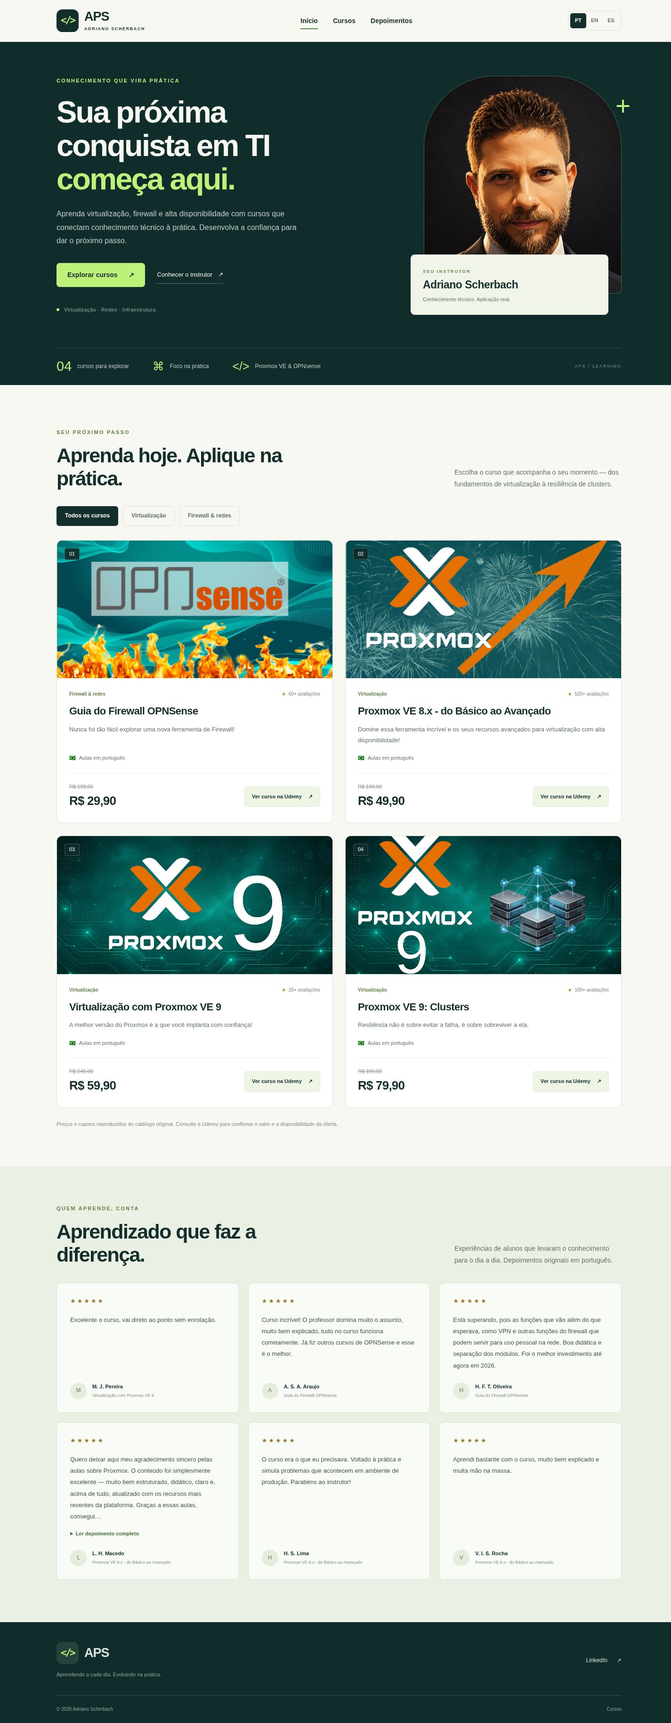
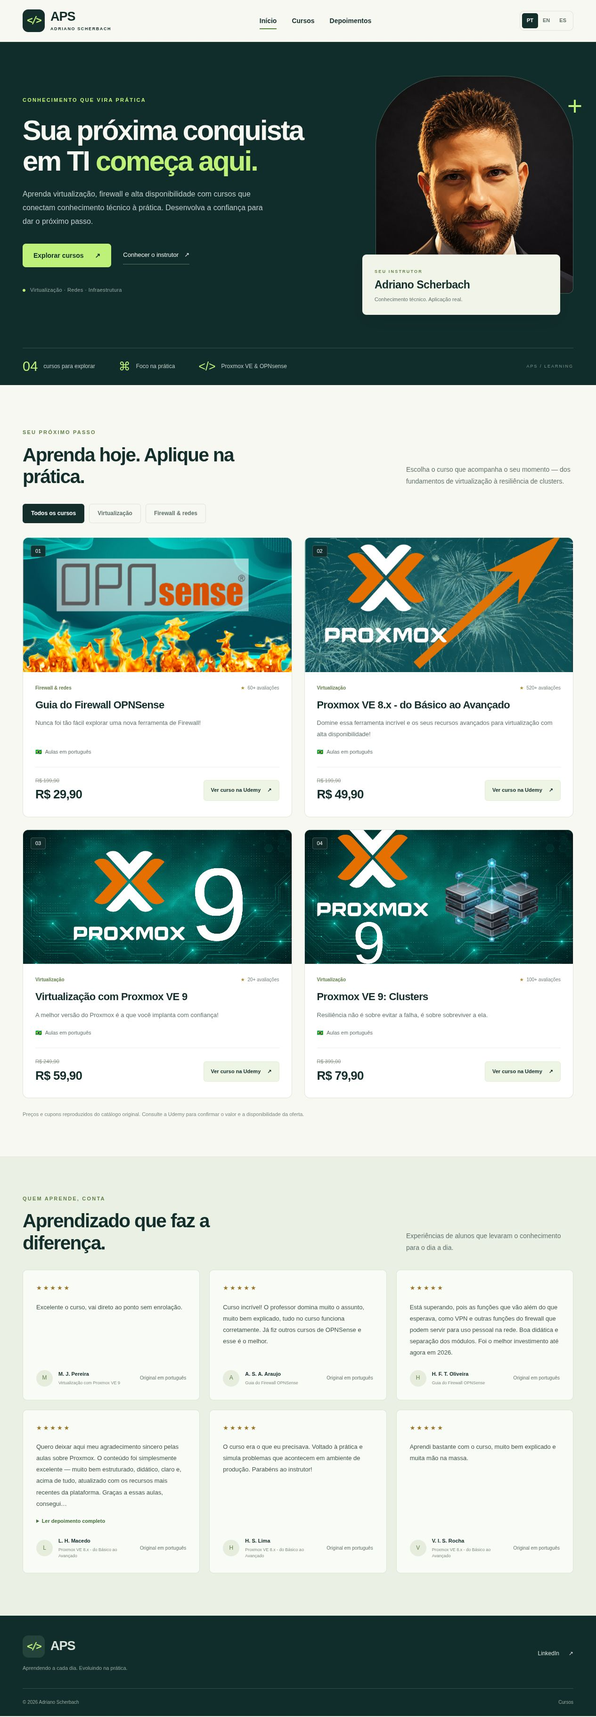
nova versao 2026-10 v2

diff --git a/src/lang/translations.js b/src/lang/translations.js
@@ -1,1 +1,1 @@
-window.APS_TRANSLATIONS = {"head": {"title": {"br": "Adriano Scherbach | Cursos de infraestrutura de TI", "en": "Adriano Scherbach | IT infrastructure courses", "es": "Adriano Scherbach | Cursos de infraestructura de TI"}}, "header": {"logo": {"br": " APS", "en": " APS", "es": " APS"}, "nav-item-start": {"br": "Início", "en": "Home", "es": "Inicio"}, "nav-item-menu": {"br": "Cursos", "en": "Courses", "es": "Cursos"}, "nav-item-testimonials": {"br": "Depoimentos", "en": "Testimonials", "es": "Testimonios"}}, "home": {"cta-title": {"br": "Sua próxima conquista em TI <span>começa aqui.</span>", "en": "Your next achievement in IT <span>starts here.</span>", "es": "Tu próximo logro en TI <span>empieza aquí.</span>"}, "cta-description": {"br": "Aprenda virtualização, firewall e alta disponibilidade com cursos que conectam conhecimento técnico à prática. Desenvolva a confiança para dar o próximo passo.", "en": "Learn virtualization, firewalls and high availability through courses that connect technical knowledge with practice. Build the confidence to take your next step.", "es": "Aprende virtualización, firewall y alta disponibilidad con cursos que conectan el conocimiento técnico con la práctica. Desarrolla la confianza para dar el siguiente paso."}, "cta-button": {"br": "Explorar cursos", "en": "Explore courses", "es": "Explorar cursos"}, "eyebrow": {"br": "CONHECIMENTO QUE VIRA PRÁTICA", "en": "KNOWLEDGE PUT INTO PRACTICE", "es": "CONOCIMIENTO QUE SE VUELVE PRÁCTICA"}, "secondary": {"br": "Conhecer o instrutor", "en": "Meet the instructor", "es": "Conocer al instructor"}, "instructor": {"br": "SEU INSTRUTOR", "en": "YOUR INSTRUCTOR", "es": "TU INSTRUCTOR"}, "role": {"br": "Conhecimento técnico. Aplicação real.", "en": "Technical knowledge. Real application.", "es": "Conocimiento técnico. Aplicación real."}, "topics": {"br": "Virtualização · Redes · Infraestrutura", "en": "Virtualization · Networks · Infrastructure", "es": "Virtualización · Redes · Infraestructura"}, "stats-courses": {"br": "cursos para explorar", "en": "courses to explore", "es": "cursos para explorar"}, "stats-practice": {"br": "Foco na prática", "en": "Practice first", "es": "Enfoque práctico"}, "stats-tools": {"br": "Proxmox VE & OPNsense", "en": "Proxmox VE & OPNsense", "es": "Proxmox VE & OPNsense"}}, "menu": {"title": {"br": "Cursos", "en": "Courses", "es": "Cursos"}, "subtitle": {"br": "Aprenda hoje. Aplique na prática.", "en": "Learn today. Put it into practice.", "es": "Aprende hoy. Llévalo a la práctica."}, "languages": {"br": "Idiomas Disponíveis", "en": "Available languages", "es": "Idiomas disponibles"}, "explorer": {"br": "Explorar", "en": "Discover", "es": "Explorar"}, "opnsense": {"title": {"br": "Guia do Firewall OPNSense", "en": "OPNsense Firewall Guide", "es": "Guía del Firewall OPNsense"}, "description": {"br": "Nunca foi tão fácil explorar uma nova ferramenta de Firewall!", "en": "It has never been easier to explore a new Firewall tool!", "es": "¡Explorar una nueva herramienta de Firewall nunca ha sido tan fácil!"}}, "pve8": {"title": {"br": "Proxmox VE 8.x - do Básico ao Avançado", "en": "Proxmox VE 8.x - From Basic to Advanced", "es": "Proxmox VE 8.x: De lo básico a lo avanzado"}, "description": {"br": "Domine essa ferramenta incrível e os seus recursos avançados para virtualização com alta disponibilidade!", "en": "Master this incredible tool and its advanced features for high-availability virtualization!", "es": "¡Domina esta increíble herramienta y sus funciones avanzadas para la virtualización de alta disponibilidad!"}}, "pve9-intro": {"title": {"br": "Virtualização com Proxmox VE 9", "en": "Virtualization with Proxmox VE 9", "es": "Virtualización con Proxmox VE 9"}, "description": {"br": "A melhor versão do Proxmox é a que você implanta com confiança!", "en": "The best version of Proxmox is the one you deploy with confidence!", "es": "¡La mejor versión de Proxmox es la que implementas con confianza!"}}, "pve9-clusters": {"title": {"br": "Proxmox VE 9: Clusters", "en": "Proxmox VE 9: Clusters", "es": "Proxmox VE 9: Clusters"}, "description": {"br": "Resiliência não é sobre evitar a falha, é sobre sobreviver a ela.", "en": "Resilience isn't about avoiding failure; it's about surviving it.", "es": "La resiliencia no se trata de evitar el fracaso, sino de sobrevivir a él."}}, "eyebrow": {"br": "SEU PRÓXIMO PASSO", "en": "YOUR NEXT STEP", "es": "TU SIGUIENTE PASO"}, "intro": {"br": "Escolha o curso que acompanha o seu momento — dos fundamentos de virtualização à resiliência de clusters.", "en": "Choose the course that fits your journey — from virtualization fundamentals to cluster resilience.", "es": "Elige el curso que acompaña tu momento: desde los fundamentos de virtualización hasta la resiliencia de clusters."}, "all": {"br": "Todos os cursos", "en": "All courses", "es": "Todos los cursos"}, "virtualization": {"br": "Virtualização", "en": "Virtualization", "es": "Virtualización"}, "security": {"br": "Firewall & redes", "en": "Firewall & networks", "es": "Firewall y redes"}, "buy": {"br": "Ver curso na Udemy", "en": "View course on Udemy", "es": "Ver curso en Udemy"}, "language": {"br": "Aulas em português", "en": "Taught in Portuguese", "es": "Clases en portugués"}, "reviews": {"br": "avaliações", "en": "reviews", "es": "reseñas"}, "notice": {"br": "Preços e cupons reproduzidos do catálogo original. Consulte a Udemy para confirmar o valor e a disponibilidade da oferta.", "en": "Prices and coupons reproduced from the original catalog. Check Udemy to confirm current pricing and offer availability.", "es": "Precios y cupones reproducidos del catálogo original. Consulta Udemy para confirmar el precio y la disponibilidad de la oferta."}, "empty": {"br": "Nenhum curso nesta categoria.", "en": "No courses in this category.", "es": "No hay cursos en esta categoría."}}, "testimonials": {"title": {"br": "Avaliações", "en": "Reviews", "es": "Reseñas"}, "subtitle": {"br": "Aprendizado que faz a diferença.", "en": "Learning that makes a difference.", "es": "Aprendizaje que marca la diferencia."}, "eyebrow": {"br": "QUEM APRENDE, CONTA", "en": "FROM THE PEOPLE WHO LEARN", "es": "QUIEN APRENDE, CUENTA"}, "intro": {"br": "Experiências de alunos que levaram o conhecimento para o dia a dia. Depoimentos originais em português.", "en": "Experiences from students who put their knowledge into practice. Original testimonials in Portuguese.", "es": "Experiencias de alumnos que aplicaron el conocimiento en su día a día. Testimonios originales en portugués."}, "more": {"br": "Ler depoimento completo", "en": "Read full testimonial", "es": "Leer testimonio completo"}}, "footer": {"home": {"br": "Início", "en": "Home", "es": "Inicio"}, "about": {"br": "Sobre", "en": "About", "es": "Acerca de"}, "tagline": {"br": "Aprendendo a cada dia. Evoluindo na prática.", "en": "Learning every day. Growing through practice.", "es": "Aprendiendo cada día. Evolucionando en la práctica."}}, "modules": {"title": {"br": "Módulos", "en": "Modules", "es": "Modulos"}, "subtitle": {"br": "Comece hoje mesmo", "en": "Get started today!", "es": "¡Empieza hoy mismo!"}}, "a11y": {"skip": {"br": "Ir para o conteúdo", "en": "Skip to content", "es": "Ir al contenido"}, "menu": {"br": "Abrir ou fechar navegação", "en": "Open or close navigation", "es": "Abrir o cerrar navegación"}, "language": {"br": "Idioma do site", "en": "Site language", "es": "Idioma del sitio"}, "navigation": {"br": "Navegação principal", "en": "Main navigation", "es": "Navegación principal"}}};
+window.APS_TRANSLATIONS = {"head": {"title": {"br": "Adriano Scherbach | Cursos de infraestrutura de TI", "en": "Adriano Scherbach | IT infrastructure courses", "es": "Adriano Scherbach | Cursos de infraestructura de TI"}}, "header": {"logo": {"br": " APS", "en": " APS", "es": " APS"}, "nav-item-start": {"br": "Início", "en": "Home", "es": "Inicio"}, "nav-item-menu": {"br": "Cursos", "en": "Courses", "es": "Cursos"}, "nav-item-testimonials": {"br": "Depoimentos", "en": "Testimonials", "es": "Testimonios"}}, "home": {"cta-title": {"br": "Sua próxima conquista em TI <span>começa aqui.</span>", "en": "Your next achievement in IT <span>starts here.</span>", "es": "Tu próximo logro en TI <span>empieza aquí.</span>"}, "cta-description": {"br": "Aprenda virtualização, firewall e alta disponibilidade com cursos que conectam conhecimento técnico à prática. Desenvolva a confiança para dar o próximo passo.", "en": "Learn virtualization, firewalls and high availability through courses that connect technical knowledge with practice. Build the confidence to take your next step.", "es": "Aprende virtualización, firewall y alta disponibilidad con cursos que conectan el conocimiento técnico con la práctica. Desarrolla la confianza para dar el siguiente paso."}, "cta-button": {"br": "Explorar cursos", "en": "Explore courses", "es": "Explorar cursos"}, "eyebrow": {"br": "CONHECIMENTO QUE VIRA PRÁTICA", "en": "KNOWLEDGE PUT INTO PRACTICE", "es": "CONOCIMIENTO QUE SE VUELVE PRÁCTICA"}, "secondary": {"br": "Conhecer o instrutor", "en": "Meet the instructor", "es": "Conocer al instructor"}, "instructor": {"br": "SEU INSTRUTOR", "en": "YOUR INSTRUCTOR", "es": "TU INSTRUCTOR"}, "role": {"br": "Conhecimento técnico. Aplicação real.", "en": "Technical knowledge. Real application.", "es": "Conocimiento técnico. Aplicación real."}, "topics": {"br": "Virtualização · Redes · Infraestrutura", "en": "Virtualization · Networks · Infrastructure", "es": "Virtualización · Redes · Infraestructura"}, "stats-courses": {"br": "cursos para explorar", "en": "courses to explore", "es": "cursos para explorar"}, "stats-practice": {"br": "Foco na prática", "en": "Practice first", "es": "Enfoque práctico"}, "stats-tools": {"br": "Proxmox VE & OPNsense", "en": "Proxmox VE & OPNsense", "es": "Proxmox VE & OPNsense"}}, "menu": {"title": {"br": "Cursos", "en": "Courses", "es": "Cursos"}, "subtitle": {"br": "Aprenda hoje. Aplique na prática.", "en": "Learn today. Put it into practice.", "es": "Aprende hoy. Llévalo a la práctica."}, "languages": {"br": "Idiomas Disponíveis", "en": "Available languages", "es": "Idiomas disponibles"}, "explorer": {"br": "Explorar", "en": "Discover", "es": "Explorar"}, "opnsense": {"title": {"br": "Guia do Firewall OPNSense", "en": "OPNsense Firewall Guide", "es": "Guía del Firewall OPNsense"}, "description": {"br": "Nunca foi tão fácil explorar uma nova ferramenta de Firewall!", "en": "It has never been easier to explore a new Firewall tool!", "es": "¡Explorar una nueva herramienta de Firewall nunca ha sido tan fácil!"}}, "pve8": {"title": {"br": "Proxmox VE 8.x - do Básico ao Avançado", "en": "Proxmox VE 8.x - From Basic to Advanced", "es": "Proxmox VE 8.x: De lo básico a lo avanzado"}, "description": {"br": "Domine essa ferramenta incrível e os seus recursos avançados para virtualização com alta disponibilidade!", "en": "Master this incredible tool and its advanced features for high-availability virtualization!", "es": "¡Domina esta increíble herramienta y sus funciones avanzadas para la virtualización de alta disponibilidad!"}}, "pve9-intro": {"title": {"br": "Virtualização com Proxmox VE 9", "en": "Virtualization with Proxmox VE 9", "es": "Virtualización con Proxmox VE 9"}, "description": {"br": "A melhor versão do Proxmox é a que você implanta com confiança!", "en": "The best version of Proxmox is the one you deploy with confidence!", "es": "¡La mejor versión de Proxmox es la que implementas con confianza!"}}, "pve9-clusters": {"title": {"br": "Proxmox VE 9: Clusters", "en": "Proxmox VE 9: Clusters", "es": "Proxmox VE 9: Clusters"}, "description": {"br": "Resiliência não é sobre evitar a falha, é sobre sobreviver a ela.", "en": "Resilience isn't about avoiding failure; it's about surviving it.", "es": "La resiliencia no se trata de evitar el fracaso, sino de sobrevivir a él."}}, "eyebrow": {"br": "SEU PRÓXIMO PASSO", "en": "YOUR NEXT STEP", "es": "TU SIGUIENTE PASO"}, "intro": {"br": "Escolha o curso que acompanha o seu momento — dos fundamentos de virtualização à resiliência de clusters.", "en": "Choose the course that fits your journey — from virtualization fundamentals to cluster resilience.", "es": "Elige el curso que acompaña tu momento: desde los fundamentos de virtualización hasta la resiliencia de clusters."}, "all": {"br": "Todos os cursos", "en": "All courses", "es": "Todos los cursos"}, "virtualization": {"br": "Virtualização", "en": "Virtualization", "es": "Virtualización"}, "security": {"br": "Firewall & redes", "en": "Firewall & networks", "es": "Firewall y redes"}, "buy": {"br": "Ver curso na Udemy", "en": "View course on Udemy", "es": "Ver curso en Udemy"}, "language": {"br": "Aulas em português", "en": "Taught in Portuguese", "es": "Clases en portugués"}, "reviews": {"br": "avaliações", "en": "reviews", "es": "reseñas"}, "notice": {"br": "Preços e cupons reproduzidos do catálogo original. Consulte a Udemy para confirmar o valor e a disponibilidade da oferta.", "en": "Prices and coupons reproduced from the original catalog. Check Udemy to confirm current pricing and offer availability.", "es": "Precios y cupones reproducidos del catálogo original. Consulta Udemy para confirmar el precio y la disponibilidad de la oferta."}, "empty": {"br": "Nenhum curso nesta categoria.", "en": "No courses in this category.", "es": "No hay cursos en esta categoría."}}, "testimonials": {"title": {"br": "Avaliações", "en": "Reviews", "es": "Reseñas"}, "subtitle": {"br": "Aprendizado que faz a diferença.", "en": "Learning that makes a difference.", "es": "Aprendizaje que marca la diferencia."}, "eyebrow": {"br": "QUEM APRENDE, CONTA", "en": "FROM THE PEOPLE WHO LEARN", "es": "QUIEN APRENDE, CUENTA"}, "intro": {"br": "Experiências de alunos que levaram o conhecimento para o dia a dia.", "en": "Experiences from students who put their knowledge into practice.", "es": "Experiencias de alumnos que aplicaron el conocimiento en su día a día."}, "more": {"br": "Ler depoimento completo", "en": "Read full testimonial", "es": "Leer testimonio completo"}, "items": {"review1": {"quote": {"br": "Excelente o curso, vai direto ao ponto sem enrolação.", "en": "Excellent course; it gets straight to the point without unnecessary digressions.", "es": "Excelente curso; va directo al punto, sin rodeos."}}, "review2": {"quote": {"br": "Curso incrível! O professor domina muito o assunto, muito bem explicado, tudo no curso funciona corretamente. Já fiz outros cursos de OPNSense e esse é o melhor.", "en": "Amazing course! The instructor really knows the subject, explains everything very well, and everything in the course works correctly. I have taken other OPNsense courses, and this one is the best.", "es": "¡Curso increíble! El profesor domina muy bien el tema, lo explica todo muy bien y todo lo que se muestra en el curso funciona correctamente. Ya he hecho otros cursos de OPNsense y este es el mejor."}}, "review3": {"quote": {"br": "Está superando, pois as funções que vão além do que esperava, como VPN e outras funções do firewall que podem servir para uso pessoal na rede. Boa didática e separação dos módulos. Foi o melhor investimento até agora em 2026.", "en": "It is exceeding my expectations, with features that go beyond what I expected, such as VPN and other firewall functions that can be useful on a personal network. Good teaching and module organization. It has been my best investment so far in 2026.", "es": "Está superando mis expectativas, con funciones que van más allá de lo que esperaba, como VPN y otras funciones del firewall que pueden servir para uso personal en la red. Buena didáctica y organización de los módulos. Ha sido mi mejor inversión hasta ahora en 2026."}}, "review4": {"quote": {"br": "Quero deixar aqui meu agradecimento sincero pelas aulas sobre Proxmox. O conteúdo foi simplesmente excelente — muito bem estruturado, didático, claro e, acima de tudo, atualizado com os recursos mais recentes da plataforma.  Graças a essas aulas, consegui compreender todas as capacidades e possibilidades que o Proxmox oferece, desde a virtualização com KVM até o uso de containers, snapshots, alta disponibilidade, ZFS, gerenciamento em cluster e muito mais. Ferramentas que antes pareciam complexas agora fazem parte do meu dia a dia com muito mais segurança e confiança.  Parabéns pelo trabalho de qualidade e pelo jeito direto e acessível de ensinar. Aprender sobre virtualização com Proxmox nunca foi tão claro!  Muito obrigado!", "en": "I want to express my sincere thanks for the Proxmox lessons. The content was simply excellent — very well structured, easy to follow, clear and, above all, up to date with the platform’s latest features. Thanks to these lessons, I was able to understand all the capabilities and possibilities Proxmox offers, from virtualization with KVM to containers, snapshots, high availability, ZFS, cluster management and much more. Tools that once seemed complex are now part of my daily work, with much greater assurance and confidence. Congratulations on the quality of your work and your direct, accessible way of teaching. Learning about virtualization with Proxmox has never been so clear! Thank you very much!", "es": "Quiero expresar mi sincero agradecimiento por las clases sobre Proxmox. El contenido fue sencillamente excelente: muy bien estructurado, didáctico, claro y, sobre todo, actualizado con las funciones más recientes de la plataforma. Gracias a estas clases, pude comprender todas las capacidades y posibilidades que ofrece Proxmox, desde la virtualización con KVM hasta el uso de contenedores, snapshots, alta disponibilidad, ZFS, gestión de clusters y mucho más. Herramientas que antes parecían complejas ahora forman parte de mi día a día con mucha más seguridad y confianza. Felicitaciones por el trabajo de calidad y por la forma directa y accesible de enseñar. ¡Aprender sobre virtualización con Proxmox nunca había sido tan claro! ¡Muchas gracias!"}, "preview": {"br": "Quero deixar aqui meu agradecimento sincero pelas aulas sobre Proxmox. O conteúdo foi simplesmente excelente — muito bem estruturado, didático, claro e, acima de tudo, atualizado com os recursos mais recentes da plataforma.  Graças a essas aulas, consegui…", "en": "I want to express my sincere thanks for the Proxmox lessons. The content was simply excellent — very well structured, easy to follow, clear and, above all, up to date with the platform’s latest features. Thanks to these lessons, I was able to understand all…", "es": "Quiero expresar mi sincero agradecimiento por las clases sobre Proxmox. El contenido fue sencillamente excelente: muy bien estructurado, didáctico, claro y, sobre todo, actualizado con las funciones más recientes de la plataforma. Gracias a estas clases, pude…"}}, "review5": {"quote": {"br": "O curso era o que eu precisava. Voltado à prática e simula problemas que acontecem em ambiente de produção. Parabéns ao instrutor!", "en": "The course was exactly what I needed. It focuses on practice and simulates problems that occur in production environments. Congratulations to the instructor!", "es": "El curso era lo que necesitaba. Está orientado a la práctica y simula problemas que ocurren en entornos de producción. ¡Felicitaciones al instructor!"}}, "review6": {"quote": {"br": "Aprendi bastante com o curso, muito bem explicado e muita mão na massa.", "en": "I learned a lot from the course. Everything is explained very well, with plenty of hands-on practice.", "es": "Aprendí mucho con el curso; está muy bien explicado y hay mucha práctica."}}}, "translated": {"br": "Depoimento traduzido", "en": "Translated testimonial", "es": "Testimonio traducido"}, "original": {"br": "Ver original em português", "en": "View Portuguese original", "es": "Ver original en portugués"}, "originalLanguage": {"br": "Original em português", "en": "Originally in Portuguese", "es": "Original en portugués"}}, "footer": {"home": {"br": "Início", "en": "Home", "es": "Inicio"}, "about": {"br": "Sobre", "en": "About", "es": "Acerca de"}, "tagline": {"br": "Aprendendo a cada dia. Evoluindo na prática.", "en": "Learning every day. Growing through practice.", "es": "Aprendiendo cada día. Evolucionando en la práctica."}}, "modules": {"title": {"br": "Módulos", "en": "Modules", "es": "Modulos"}, "subtitle": {"br": "Comece hoje mesmo", "en": "Get started today!", "es": "¡Empieza hoy mismo!"}}, "a11y": {"skip": {"br": "Ir para o conteúdo", "en": "Skip to content", "es": "Ir al contenido"}, "menu": {"br": "Abrir ou fechar navegação", "en": "Open or close navigation", "es": "Abrir o cerrar navegación"}, "language": {"br": "Idioma do site", "en": "Site language", "es": "Idioma del sitio"}, "navigation": {"br": "Navegação principal", "en": "Main navigation", "es": "Navegación principal"}}};

diff --git a/index.html b/index.html
@@ -24,5 +24,5 @@
  <h3 data-i18n="menu.pve9-clusters.title" >Proxmox VE 9: Clusters</h3><p data-i18n="menu.pve9-clusters.description" class="course-description">Resiliência não é sobre evitar a falha, é sobre sobreviver a ela.</p>
  <div class="course-language"><span aria-hidden="true">🇧🇷</span> <span data-i18n="menu.language" >Aulas em português</span></div>
  <div class="course-bottom"><div class="price"><del>R$ 399,00</del><strong>R$ 79,90</strong></div><a class="course-link" href="https://www.udemy.com/course/proxmox-ve-9-clusters/?couponCode=66CB955DEFACEABEDBF8" target="_blank" rel="noopener noreferrer"><span data-i18n="menu.buy" >Ver curso na Udemy</span><span aria-hidden="true">↗</span></a></div></div></article></div><p data-i18n="menu.notice" class="price-notice">Preços e cupons reproduzidos do catálogo original. Consulte a Udemy para confirmar o valor e a disponibilidade da oferta.</p></section>
-<section id="testimonials" class="testimonials"><div class="container"><div class="section-heading"><div><p data-i18n="testimonials.eyebrow" class="eyebrow">QUEM APRENDE, CONTA</p><h2 data-i18n="testimonials.subtitle" >Aprendizado que faz a diferença.</h2></div><p data-i18n="testimonials.intro" class="section-description">Experiências de alunos que levaram o conhecimento para o dia a dia. Depoimentos originais em português.</p></div><div class="feedbacks"><figure class="feedback"><div class="stars" aria-label="5 / 5">★★★★★</div><blockquote lang="pt-BR">Excelente o curso, vai direto ao ponto sem enrolação.</blockquote><figcaption><span class="avatar" aria-hidden="true">M</span><div><strong>M. J. Pereira</strong><span>Virtualização com Proxmox VE 9</span></div></figcaption></figure><figure class="feedback"><div class="stars" aria-label="5 / 5">★★★★★</div><blockquote lang="pt-BR">Curso incrível! O professor domina muito o assunto, muito bem explicado, tudo no curso funciona corretamente. Já fiz outros cursos de OPNSense e esse é o melhor.</blockquote><figcaption><span class="avatar" aria-hidden="true">A</span><div><strong>A. S. A. Araujo</strong><span>Guia do Firewall OPNSense</span></div></figcaption></figure><figure class="feedback"><div class="stars" aria-label="5 / 5">★★★★★</div><blockquote lang="pt-BR">Está superando, pois as funções que vão além do que esperava, como VPN e outras funções do firewall que podem servir para uso pessoal na rede. Boa didática e separação dos módulos. Foi o melhor investimento até agora em 2026.</blockquote><figcaption><span class="avatar" aria-hidden="true">H</span><div><strong>H. F. T. Oliveira</strong><span>Guia do Firewall OPNSense</span></div></figcaption></figure><figure class="feedback"><div class="stars" aria-label="5 / 5">★★★★★</div><blockquote lang="pt-BR">Quero deixar aqui meu agradecimento sincero pelas aulas sobre Proxmox. O conteúdo foi simplesmente excelente — muito bem estruturado, didático, claro e, acima de tudo, atualizado com os recursos mais recentes da plataforma.  Graças a essas aulas, consegui…<details><summary data-i18n="testimonials.more">Ler depoimento completo</summary><p>Quero deixar aqui meu agradecimento sincero pelas aulas sobre Proxmox. O conteúdo foi simplesmente excelente — muito bem estruturado, didático, claro e, acima de tudo, atualizado com os recursos mais recentes da plataforma.  Graças a essas aulas, consegui compreender todas as capacidades e possibilidades que o Proxmox oferece, desde a virtualização com KVM até o uso de containers, snapshots, alta disponibilidade, ZFS, gerenciamento em cluster e muito mais. Ferramentas que antes pareciam complexas agora fazem parte do meu dia a dia com muito mais segurança e confiança.  Parabéns pelo trabalho de qualidade e pelo jeito direto e acessível de ensinar. Aprender sobre virtualização com Proxmox nunca foi tão claro!  Muito obrigado!</p></details></blockquote><figcaption><span class="avatar" aria-hidden="true">L</span><div><strong>L. H. Macedo</strong><span>Proxmox VE 8.x - do Básico ao Avançado</span></div></figcaption></figure><figure class="feedback"><div class="stars" aria-label="5 / 5">★★★★★</div><blockquote lang="pt-BR">O curso era o que eu precisava. Voltado à prática e simula problemas que acontecem em ambiente de produção. Parabéns ao instrutor!</blockquote><figcaption><span class="avatar" aria-hidden="true">H</span><div><strong>H. S. Lima</strong><span>Proxmox VE 8.x - do Básico ao Avançado</span></div></figcaption></figure><figure class="feedback"><div class="stars" aria-label="5 / 5">★★★★★</div><blockquote lang="pt-BR">Aprendi bastante com o curso, muito bem explicado e muita mão na massa.</blockquote><figcaption><span class="avatar" aria-hidden="true">V</span><div><strong>V. I. S. Rocha</strong><span>Proxmox VE 8.x - do Básico ao Avançado</span></div></figcaption></figure></div></div></section></main>
+<section id="testimonials" class="testimonials"><div class="container"><div class="section-heading"><div><p data-i18n="testimonials.eyebrow" class="eyebrow">QUEM APRENDE, CONTA</p><h2 data-i18n="testimonials.subtitle" >Aprendizado que faz a diferença.</h2></div><p data-i18n="testimonials.intro" class="section-description">Experiências de alunos que levaram o conhecimento para o dia a dia. Depoimentos originais em português.</p></div><div class="feedbacks"><figure class="feedback"><div class="stars" aria-label="5 / 5">★★★★★</div><blockquote><p data-i18n="testimonials.items.review1.quote">Excelente o curso, vai direto ao ponto sem enrolação.</p></blockquote><figcaption><span class="avatar" aria-hidden="true">M</span><div><strong>M. J. Pereira</strong><span data-i18n="menu.pve9-intro.title">Virtualização com Proxmox VE 9</span></div><span class="testimonial-language" data-i18n="testimonials.originalLanguage">Original em português</span></figcaption><div class="translation-context" hidden><span class="translation-note" data-i18n="testimonials.translated">Traduzido do português</span><details class="original-testimonial"><summary data-i18n="testimonials.original">Ver original em português</summary><p lang="pt-BR">Excelente o curso, vai direto ao ponto sem enrolação.</p></details></div></figure><figure class="feedback"><div class="stars" aria-label="5 / 5">★★★★★</div><blockquote><p data-i18n="testimonials.items.review2.quote">Curso incrível! O professor domina muito o assunto, muito bem explicado, tudo no curso funciona corretamente. Já fiz outros cursos de OPNSense e esse é o melhor.</p></blockquote><figcaption><span class="avatar" aria-hidden="true">A</span><div><strong>A. S. A. Araujo</strong><span data-i18n="menu.opnsense.title">Guia do Firewall OPNSense</span></div><span class="testimonial-language" data-i18n="testimonials.originalLanguage">Original em português</span></figcaption><div class="translation-context" hidden><span class="translation-note" data-i18n="testimonials.translated">Traduzido do português</span><details class="original-testimonial"><summary data-i18n="testimonials.original">Ver original em português</summary><p lang="pt-BR">Curso incrível! O professor domina muito o assunto, muito bem explicado, tudo no curso funciona corretamente. Já fiz outros cursos de OPNSense e esse é o melhor.</p></details></div></figure><figure class="feedback"><div class="stars" aria-label="5 / 5">★★★★★</div><blockquote><p data-i18n="testimonials.items.review3.quote">Está superando, pois as funções que vão além do que esperava, como VPN e outras funções do firewall que podem servir para uso pessoal na rede. Boa didática e separação dos módulos. Foi o melhor investimento até agora em 2026.</p></blockquote><figcaption><span class="avatar" aria-hidden="true">H</span><div><strong>H. F. T. Oliveira</strong><span data-i18n="menu.opnsense.title">Guia do Firewall OPNSense</span></div><span class="testimonial-language" data-i18n="testimonials.originalLanguage">Original em português</span></figcaption><div class="translation-context" hidden><span class="translation-note" data-i18n="testimonials.translated">Traduzido do português</span><details class="original-testimonial"><summary data-i18n="testimonials.original">Ver original em português</summary><p lang="pt-BR">Está superando, pois as funções que vão além do que esperava, como VPN e outras funções do firewall que podem servir para uso pessoal na rede. Boa didática e separação dos módulos. Foi o melhor investimento até agora em 2026.</p></details></div></figure><figure class="feedback"><div class="stars" aria-label="5 / 5">★★★★★</div><blockquote><p data-i18n="testimonials.items.review4.preview">Quero deixar aqui meu agradecimento sincero pelas aulas sobre Proxmox. O conteúdo foi simplesmente excelente — muito bem estruturado, didático, claro e, acima de tudo, atualizado com os recursos mais recentes da plataforma.  Graças a essas aulas, consegui…</p><details><summary data-i18n="testimonials.more">Ler depoimento completo</summary><p data-i18n="testimonials.items.review4.quote">Quero deixar aqui meu agradecimento sincero pelas aulas sobre Proxmox. O conteúdo foi simplesmente excelente — muito bem estruturado, didático, claro e, acima de tudo, atualizado com os recursos mais recentes da plataforma.  Graças a essas aulas, consegui compreender todas as capacidades e possibilidades que o Proxmox oferece, desde a virtualização com KVM até o uso de containers, snapshots, alta disponibilidade, ZFS, gerenciamento em cluster e muito mais. Ferramentas que antes pareciam complexas agora fazem parte do meu dia a dia com muito mais segurança e confiança.  Parabéns pelo trabalho de qualidade e pelo jeito direto e acessível de ensinar. Aprender sobre virtualização com Proxmox nunca foi tão claro!  Muito obrigado!</p></details></blockquote><figcaption><span class="avatar" aria-hidden="true">L</span><div><strong>L. H. Macedo</strong><span data-i18n="menu.pve8.title">Proxmox VE 8.x - do Básico ao Avançado</span></div><span class="testimonial-language" data-i18n="testimonials.originalLanguage">Original em português</span></figcaption><div class="translation-context" hidden><span class="translation-note" data-i18n="testimonials.translated">Traduzido do português</span><details class="original-testimonial"><summary data-i18n="testimonials.original">Ver original em português</summary><p lang="pt-BR">Quero deixar aqui meu agradecimento sincero pelas aulas sobre Proxmox. O conteúdo foi simplesmente excelente — muito bem estruturado, didático, claro e, acima de tudo, atualizado com os recursos mais recentes da plataforma.  Graças a essas aulas, consegui compreender todas as capacidades e possibilidades que o Proxmox oferece, desde a virtualização com KVM até o uso de containers, snapshots, alta disponibilidade, ZFS, gerenciamento em cluster e muito mais. Ferramentas que antes pareciam complexas agora fazem parte do meu dia a dia com muito mais segurança e confiança.  Parabéns pelo trabalho de qualidade e pelo jeito direto e acessível de ensinar. Aprender sobre virtualização com Proxmox nunca foi tão claro!  Muito obrigado!</p></details></div></figure><figure class="feedback"><div class="stars" aria-label="5 / 5">★★★★★</div><blockquote><p data-i18n="testimonials.items.review5.quote">O curso era o que eu precisava. Voltado à prática e simula problemas que acontecem em ambiente de produção. Parabéns ao instrutor!</p></blockquote><figcaption><span class="avatar" aria-hidden="true">H</span><div><strong>H. S. Lima</strong><span data-i18n="menu.pve8.title">Proxmox VE 8.x - do Básico ao Avançado</span></div><span class="testimonial-language" data-i18n="testimonials.originalLanguage">Original em português</span></figcaption><div class="translation-context" hidden><span class="translation-note" data-i18n="testimonials.translated">Traduzido do português</span><details class="original-testimonial"><summary data-i18n="testimonials.original">Ver original em português</summary><p lang="pt-BR">O curso era o que eu precisava. Voltado à prática e simula problemas que acontecem em ambiente de produção. Parabéns ao instrutor!</p></details></div></figure><figure class="feedback"><div class="stars" aria-label="5 / 5">★★★★★</div><blockquote><p data-i18n="testimonials.items.review6.quote">Aprendi bastante com o curso, muito bem explicado e muita mão na massa.</p></blockquote><figcaption><span class="avatar" aria-hidden="true">V</span><div><strong>V. I. S. Rocha</strong><span data-i18n="menu.pve8.title">Proxmox VE 8.x - do Básico ao Avançado</span></div><span class="testimonial-language" data-i18n="testimonials.originalLanguage">Original em português</span></figcaption><div class="translation-context" hidden><span class="translation-note" data-i18n="testimonials.translated">Traduzido do português</span><details class="original-testimonial"><summary data-i18n="testimonials.original">Ver original em português</summary><p lang="pt-BR">Aprendi bastante com o curso, muito bem explicado e muita mão na massa.</p></details></div></figure></div></div></section></main>
 <footer><div class="container footer-content"><div><a href="#home" class="brand"><span class="brand-symbol" aria-hidden="true">&lt;/&gt;</span>APS</a><p data-i18n="footer.tagline" >Aprendendo a cada dia. Evoluindo na prática.</p></div><a class="footer-social" href="https://linkedin.com/in/adriano-scherbach/" target="_blank" rel="noopener noreferrer">LinkedIn <span aria-hidden="true">↗</span></a></div><div class="container footer-bottom"><span>© 2026 Adriano Scherbach</span><a href="#menu" data-i18n="header.nav-item-menu">Cursos</a></div></footer></body></html>

diff --git a/src/styles/styles.css b/src/styles/styles.css
@@ -1,1 +1,2 @@
 :root{--ink:#142e2c;--muted:#61716b;--paper:#f7f8f2;--green:#bef17a;--line:#dfe5d9;--white:#fff;--dark:#102c2b}*{box-sizing:border-box}html{scroll-behavior:smooth;scroll-padding-top:100px}body{margin:0;font-family:Inter,ui-sans-serif,-apple-system,BlinkMacSystemFont,"Segoe UI",sans-serif;background:var(--paper);color:var(--ink);line-height:1.6}button,a{-webkit-tap-highlight-color:transparent}button{font:inherit;cursor:pointer}a{color:inherit;text-decoration:none}img{display:block;max-width:100%}button:focus-visible,a:focus-visible,summary:focus-visible{outline:3px solid #558833;outline-offset:5px}h1,h2,h3,p,figure{margin:0}button{border:0}section{scroll-margin-top:20px}.container{max-width:1200px;width:calc(100% - 96px);margin:auto}.skip-link{position:fixed;top:-100px;left:16px;background:var(--green);padding:12px;z-index:100}.skip-link:focus{top:10px}header{position:sticky;top:0;z-index:20;background:rgba(247,248,242,.97);border-bottom:1px solid var(--line)}.navbar{height:88px;display:flex;align-items:center;justify-content:space-between;gap:30px}.brand{display:flex;gap:12px;align-items:center;font-size:27px;font-weight:800;line-height:1.1;letter-spacing:-1px}.brand-symbol{font-family:monospace;background:var(--ink);color:var(--green);border-radius:12px;padding:12px 9px;font-size:21px;letter-spacing:-3px}.brand-sub{display:block;font-size:9px;letter-spacing:1.6px;font-weight:600;margin-top:7px}.nav-links{display:flex;gap:32px;font-size:14px;font-weight:600}.nav-links a{position:relative;padding:12px 0}.nav-links a.active:after{content:"";position:absolute;bottom:5px;left:0;right:0;height:2px;background:#57863e}.nav-links a:hover{color:#57863e}.nav-actions{display:flex;align-items:center;gap:16px}.languages{display:flex;padding:4px;border:1px solid var(--line);border-radius:9px}.lang{background:none;color:var(--muted);font-size:11px;font-weight:700;padding:7px 10px;border-radius:5px}.lang.selected{color:var(--white);background:var(--ink)}.mobile-toggle{display:none;background:none;width:34px;height:34px;padding:6px}.mobile-toggle span{display:block;height:2px;background:var(--ink);margin:6px 0}.hero{background:var(--dark);color:var(--paper);overflow:hidden}.hero-grid{display:grid;grid-template-columns:1.25fr 1fr;gap:70px;align-items:center;padding-top:72px;padding-bottom:70px}.eyebrow{font-size:11px;font-weight:700;letter-spacing:2.2px;line-height:1.5}.hero .eyebrow{color:var(--green)}h1{font-size:clamp(42px,4.7vw,65px);line-height:1.09;letter-spacing:-2.8px;max-width:670px;font-weight:650;margin:24px 0}h1 span{color:var(--green)}.hero-description{font-size:16px;line-height:1.8;color:#c0ceca;max-width:530px}.hero-actions{display:flex;gap:25px;align-items:center;margin-top:32px}.button{display:inline-flex;gap:24px;align-items:center;justify-content:center;padding:14px 23px;border-radius:7px;font-size:14px;font-weight:700;transition:transform .2s,background .2s}.primary{background:var(--green);color:var(--ink)}.primary:hover{background:#d0ff98;transform:translateY(-2px)}.instructor-link{font-size:13px;display:flex;gap:12px;align-items:center;border-bottom:1px solid #5a7067;padding:8px 0}.hero-topics{display:flex;gap:10px;align-items:center;color:#97aca3;font-size:11px;margin-top:40px;letter-spacing:.4px}.status-dot{width:6px;height:6px;border-radius:50%;background:var(--green)}.portrait-wrap{position:relative;max-width:420px;margin-left:auto;width:100%;padding-bottom:45px}.portrait-frame{position:relative;border-radius:150px 150px 12px 12px;overflow:hidden;border:1px solid #426056;background:#152725;aspect-ratio:1/1.1}.portrait-frame img{width:100%;height:100%;object-fit:cover}.portrait-caption{position:absolute;bottom:0;left:-28px;right:28px;background:#f1f5e9;color:var(--ink);border-radius:9px;padding:21px 26px;box-shadow:0 12px 35px #08191625}.portrait-caption .eyebrow{color:#658246;font-size:9px}.portrait-caption strong{display:block;font-size:23px;line-height:1.5;letter-spacing:-.5px}.portrait-caption>span:last-child{font-size:11px;color:var(--muted)}.portrait-decoration{position:absolute;right:-19px;top:20px;color:var(--green);font-size:55px;font-weight:200}.hero-strip{display:flex;align-items:center;gap:50px;padding-top:24px;padding-bottom:25px;border-top:1px solid #33504a}.hero-strip>div{display:flex;align-items:center;gap:12px;font-size:12px;color:#bfcdc6}.hero-strip strong{font-size:29px;color:var(--green);font-weight:500;line-height:1}.strip-icon{font-size:25px;color:var(--green);line-height:1}.strip-end{margin-left:auto;color:#81958b;font-size:9px;letter-spacing:2px}.catalog{padding-top:92px;padding-bottom:80px}.section-heading{display:flex;gap:50px;align-items:flex-end;justify-content:space-between;margin-bottom:34px}.section-heading .eyebrow{color:#638048;margin-bottom:16px}h2{font-size:clamp(30px,3.2vw,43px);line-height:1.15;letter-spacing:-1.6px;max-width:570px;font-weight:650}.section-description{font-size:14px;color:var(--muted);max-width:355px;line-height:1.8}.filters{display:flex;gap:10px;margin-bottom:30px;flex-wrap:wrap}.filters button{border:1px solid var(--line);background:transparent;border-radius:6px;padding:10px 17px;font-size:12px;font-weight:600;color:var(--muted)}.filters button.selected{background:var(--ink);color:white;border-color:var(--ink)}.filters button:hover{border-color:#708767}.filters button span{margin-left:8px;font-size:10px;opacity:.6}.courses{display:grid;grid-template-columns:repeat(2,minmax(0,1fr));gap:26px}.course{border:1px solid var(--line);background:white;border-radius:12px;overflow:hidden;display:flex;flex-direction:column;transition:box-shadow .2s,transform .2s}.course:hover{box-shadow:0 12px 35px #183d2710;transform:translateY(-3px)}.course[hidden]{display:none}.course-art{position:relative;background:#e5e9df;overflow:hidden;aspect-ratio:16/8}.course-art img{width:100%;height:100%;object-fit:cover}.course-number{position:absolute;top:16px;left:16px;background:rgba(16,44,43,.92);color:white;border:1px solid #ffffff33;padding:3px 9px;font-size:11px;border-radius:4px}.course-body{padding:26px;flex:1;display:flex;flex-direction:column}.course-meta{display:flex;justify-content:space-between;align-items:center;gap:10px;font-size:10px;font-weight:600;color:#66804d;margin-bottom:14px}.rating{white-space:nowrap;color:#758077;font-weight:400}.rating>span:first-child{color:#b18728;margin-right:3px}.course h3{font-size:22px;line-height:1.3;letter-spacing:-.6px;margin-bottom:12px;max-width:410px}.course-description{font-size:13px;line-height:1.8;color:var(--muted);margin-bottom:18px}.course-language{font-size:11px;color:var(--muted);display:flex;gap:7px;align-items:center;margin-top:auto;margin-bottom:22px}.course-bottom{border-top:1px solid #edf0e8;padding-top:20px;display:flex;align-items:center;justify-content:space-between;gap:18px}.price del{display:block;color:#899186;font-size:11px}.price strong{font-size:26px;font-weight:700;letter-spacing:-.8px;white-space:nowrap}.course-link{display:flex;align-items:center;gap:14px;background:#eef5e5;border:1px solid #e1ecd5;padding:12px 15px;border-radius:6px;font-size:11px;font-weight:700;white-space:nowrap}.course-link:hover{background:var(--green)}.price-notice{color:#7d887e;font-size:11px;line-height:1.7;margin-top:25px;max-width:800px}.testimonials{padding:80px 0 90px;background:#eaf0e4;border-top:1px solid var(--line)}.feedbacks{display:grid;grid-template-columns:repeat(3,minmax(0,1fr));gap:20px}.feedback{background:#f9fbf6;border:1px solid #dce5d4;border-radius:9px;padding:28px;display:flex;flex-direction:column}.stars{color:#9a7524;font-size:13px;letter-spacing:3px;margin-bottom:18px}.feedback blockquote{margin:0 0 24px;font-size:13px;line-height:1.85;color:#40534a}.feedback figcaption{display:flex;gap:12px;align-items:center;margin-top:auto}.avatar{width:35px;height:35px;border-radius:50%;background:#e6eddc;display:grid;place-items:center;font-size:12px;flex-shrink:0;color:#64814b}.feedback figcaption strong{font-size:11px;display:block}.feedback figcaption div>span{font-size:9px;color:#7e8a7b;display:block;line-height:1.5;margin-top:3px}.feedback details{margin-top:14px}.feedback summary{cursor:pointer;color:#447039;font-size:11px;font-weight:600}.feedback details p{padding-top:12px}footer{background:var(--dark);color:#d9e3d9;padding-top:42px}.footer-content{display:flex;justify-content:space-between;align-items:center;padding-bottom:34px}.footer-content .brand-symbol{background:#24433b}.footer-content p{font-size:11px;color:#92a89d;margin-top:14px}.footer-social{font-size:12px;display:flex;gap:20px}.footer-bottom{border-top:1px solid #335047;display:flex;justify-content:space-between;padding-top:21px;padding-bottom:21px;font-size:10px;color:#94a99d}@media(min-width:1500px){.hero-grid{padding-top:90px;padding-bottom:90px}}@media(max-width:1050px){.container{width:calc(100% - 64px)}.hero-grid{gap:44px}h1{font-size:49px}.hero-actions{gap:16px;flex-wrap:wrap}.portrait-caption{left:-15px;right:10px}.hero-strip{gap:30px}.strip-end{display:none}.feedbacks{grid-template-columns:repeat(2,minmax(0,1fr))}.course-body{padding:22px}.course-bottom{gap:10px}.course-link{padding:12px 10px;font-size:10px}.course h3{font-size:21px}}@media(max-width:760px){.container{width:calc(100% - 40px)}.navbar{height:76px;gap:14px}.brand{font-size:23px;gap:9px}.brand-symbol{font-size:18px;padding:10px 8px}.brand-sub{font-size:7px;letter-spacing:1.2px}.mobile-toggle{display:block}.nav-actions{gap:10px}.lang{padding:6px 8px}.nav-links{display:none;position:absolute;left:0;right:0;top:76px;background:var(--paper);padding:16px 20px 24px;border-bottom:1px solid var(--line);gap:10px;flex-direction:column}.nav-links.open{display:flex}.nav-links a{padding:10px}.nav-links a.active:after{bottom:4px;right:auto;width:24px;left:10px}.hero-grid{grid-template-columns:1fr;padding-top:50px;padding-bottom:50px;gap:45px}.hero-copy{max-width:580px}h1{font-size:clamp(41px,8vw,57px);letter-spacing:-1.8px}.hero-description{font-size:14px}.hero-topics{margin-top:26px;font-size:10px}.portrait-wrap{max-width:350px;margin:auto}.portrait-frame{aspect-ratio:1/1}.portrait-caption{left:-10px;right:15px}.portrait-caption strong{font-size:21px}.hero-strip{gap:18px;justify-content:space-between;flex-wrap:wrap;padding:22px 0}.hero-strip>div{font-size:10px;gap:8px}.hero-strip strong{font-size:25px}.strip-icon{font-size:20px}.hero-strip>div:last-of-type{width:100%;border-top:1px solid #33504a;padding-top:14px}.catalog{padding-top:58px;padding-bottom:55px}.section-heading{flex-direction:column;align-items:flex-start;gap:20px;margin-bottom:26px}.section-description{max-width:560px;font-size:13px}h2{font-size:35px;letter-spacing:-1.2px}.courses{grid-template-columns:1fr;gap:22px}.course-art{aspect-ratio:16/8.5}.course-body{padding:23px}.course h3{font-size:23px}.course-link{padding:13px 16px;font-size:11px}.testimonials{padding:55px 0}.feedbacks{grid-template-columns:1fr}.feedback{padding:25px}.footer-content{gap:24px}.footer-content p{max-width:230px;line-height:1.8}.eyebrow{font-size:10px}.hero-actions{gap:22px}}@media(prefers-reduced-motion:reduce){html{scroll-behavior:auto}*,*:before,*:after{transition:none!important}}
+.translation-context{border-top:1px solid var(--line);margin-top:18px;padding-top:12px}.translation-context[hidden]{display:none}.translation-note{display:block;font-size:9px;color:var(--muted);margin-bottom:6px}.original-testimonial summary{font-size:10px;font-weight:500}.original-testimonial p{font-size:12px;line-height:1.85;color:#40534a}.testimonial-language{font-size:10px;color:var(--muted);margin-left:auto;white-space:nowrap}.feedback figcaption{flex-wrap:wrap}.feedback figcaption>div{flex:1;min-width:140px}

diff --git a/src/javascript/script.js b/src/javascript/script.js
@@ -17,6 +17,10 @@
       else element.textContent = translate(key);
     });
     document.querySelectorAll('[data-i18n-aria]').forEach(element => element.setAttribute('aria-label',translate(element.dataset.i18nAria)));
+    document.querySelectorAll('.translation-context').forEach(context => {
+      context.hidden = currentLanguage === 'br';
+      if (context.hidden) context.querySelector('details').open = false;
+    });
     document.querySelectorAll('[data-lang]').forEach(button => {
       const selected = button.dataset.lang === currentLanguage;
       button.classList.toggle('selected', selected);

diff --git a/README.md b/README.md
@@ -14,7 +14,7 @@ Execute `python3 -m http.server 4173` na raiz e abra `http://localhost:4173`. Ta
 - `src/styles/styles.css`: design e layouts responsivos.
 - `src/javascript/script.js`: idioma persistente, filtros e navegação.
 
-As aulas continuam indicadas como português nos três idiomas da interface. Depoimentos são mantidos em português, sem alterar o texto dos alunos. Preços e cupons correspondem ao catálogo de origem; sua validade deve ser confirmada na Udemy.
+As aulas continuam indicadas como português nos três idiomas da interface. Cada depoimento indica português como idioma original. Depoimentos acompanham o idioma selecionado, incluindo o texto completo e o título do curso. Nas versões em inglês e espanhol, uma indicação de tradução permite consultar o original em português, preservado sem alterações. Preços e cupons correspondem ao catálogo de origem; sua validade deve ser confirmada na Udemy.
 
 ## Publicação
 
